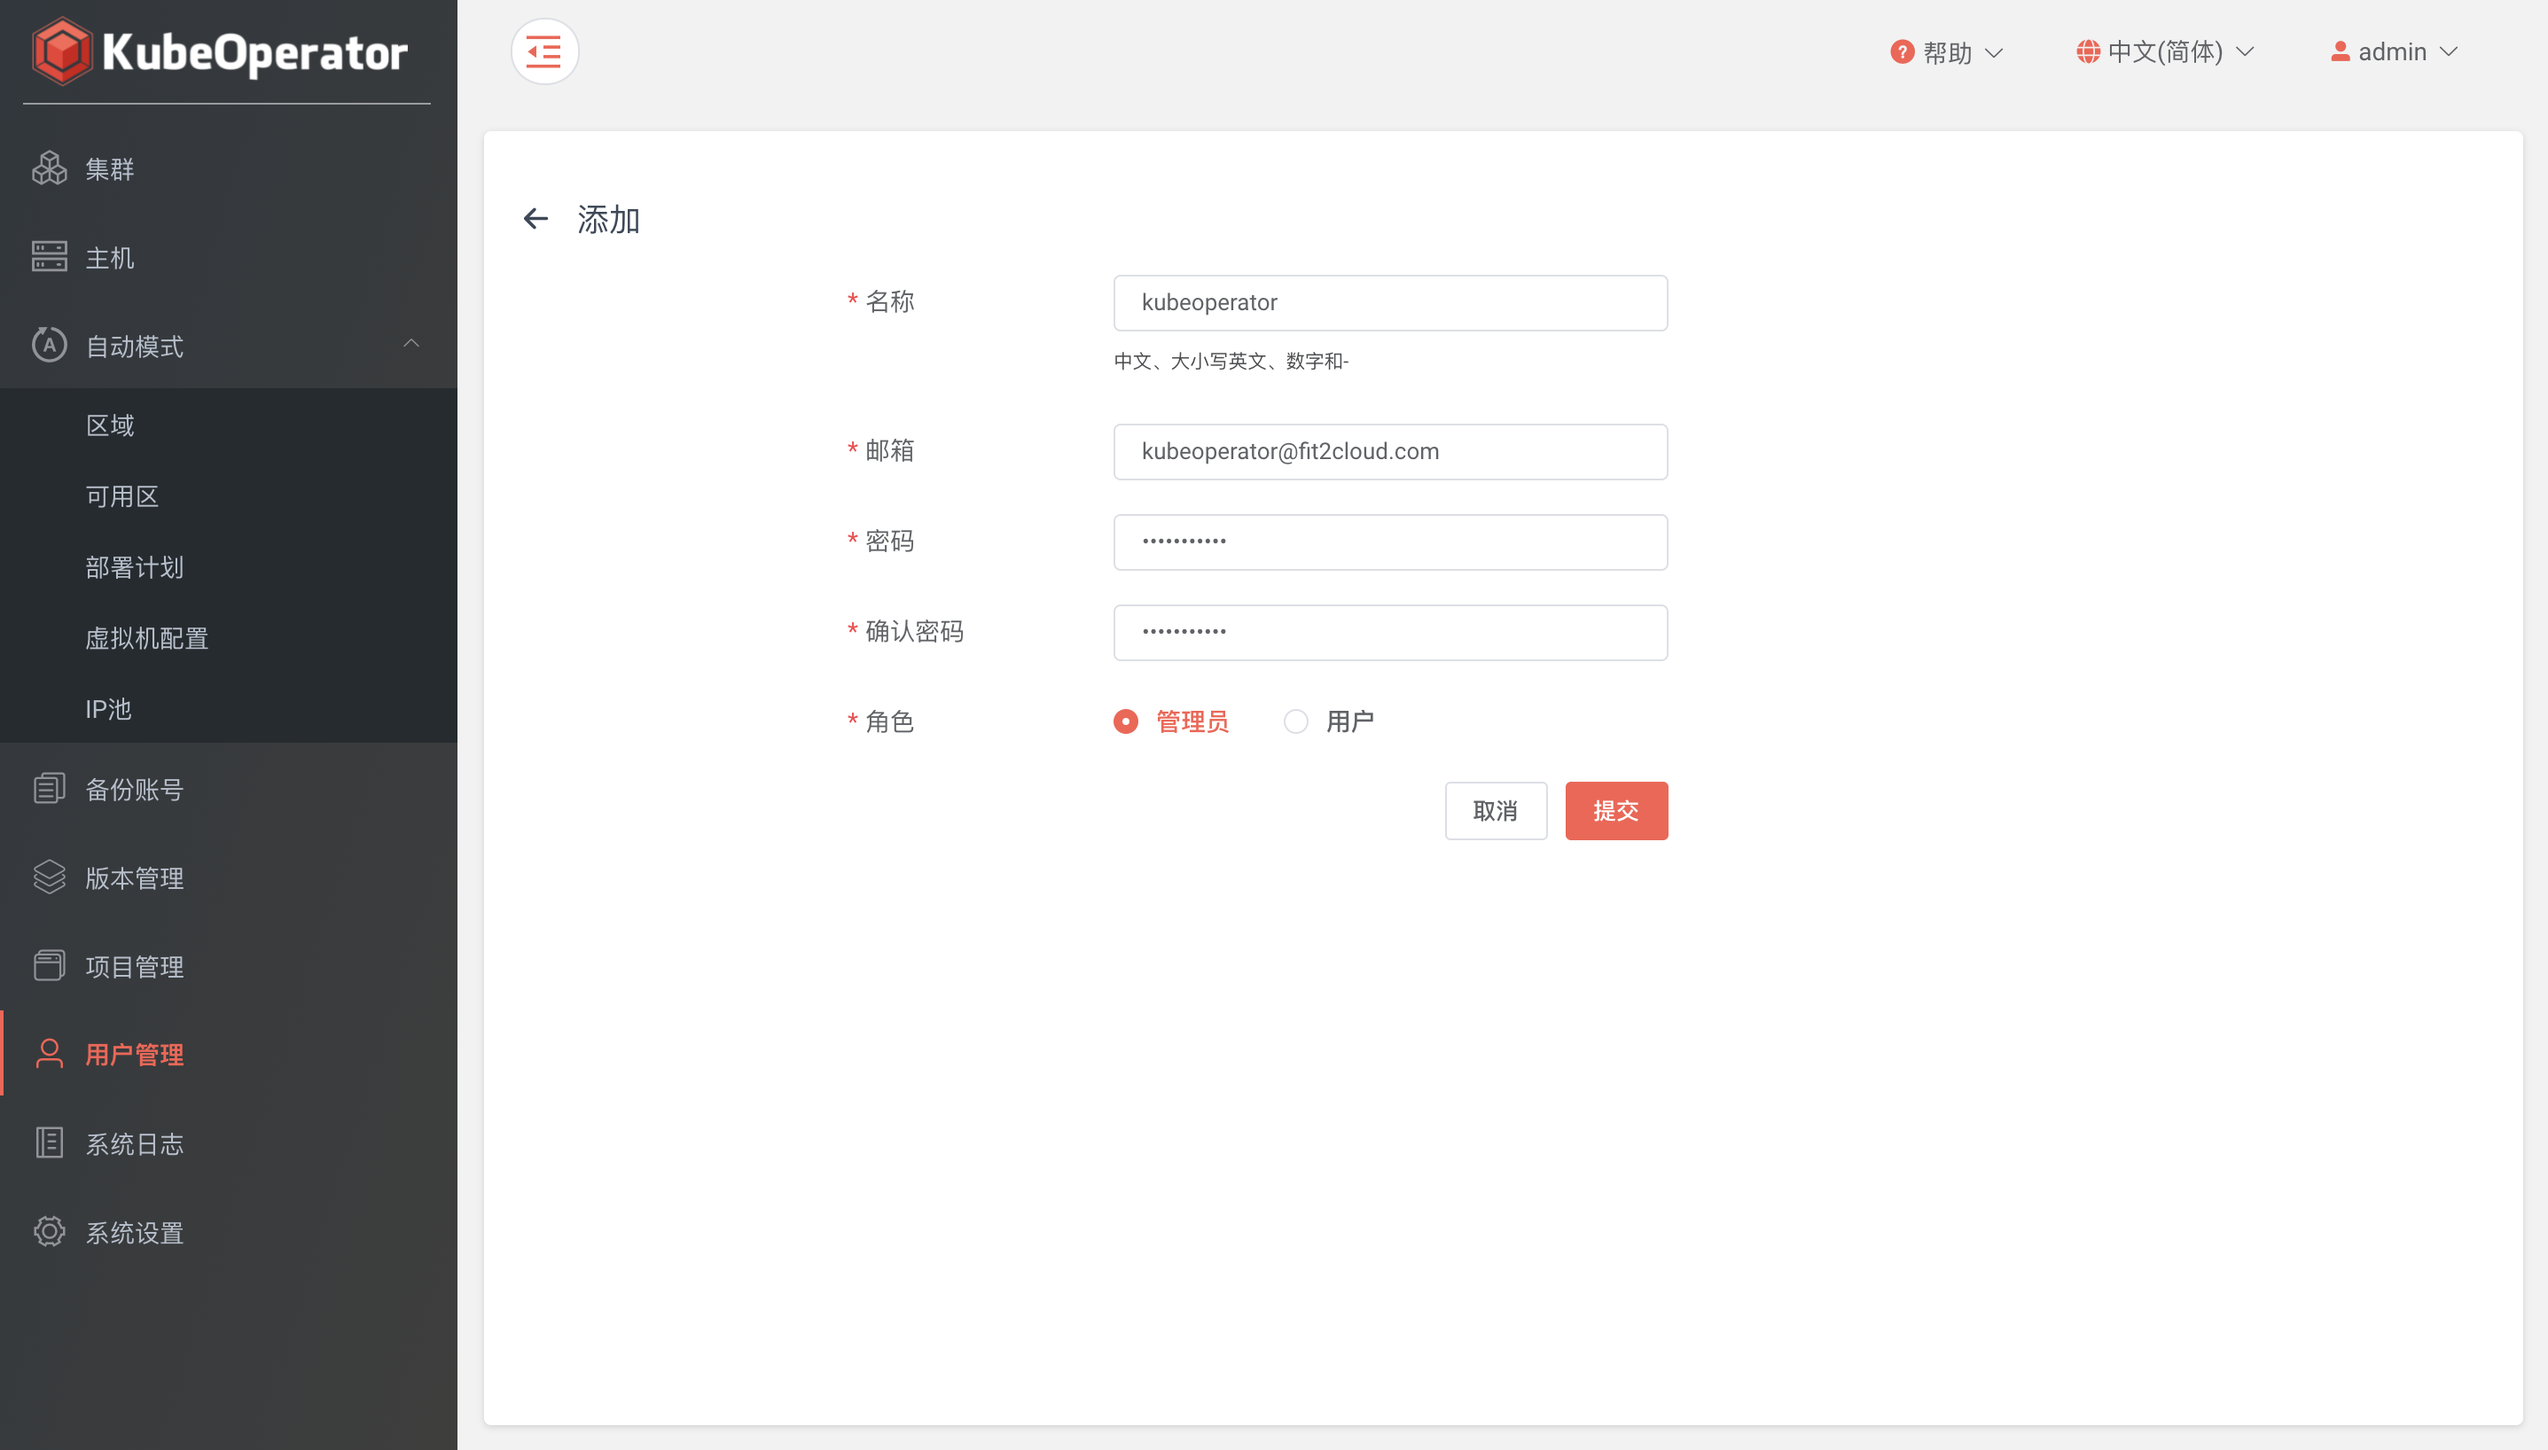
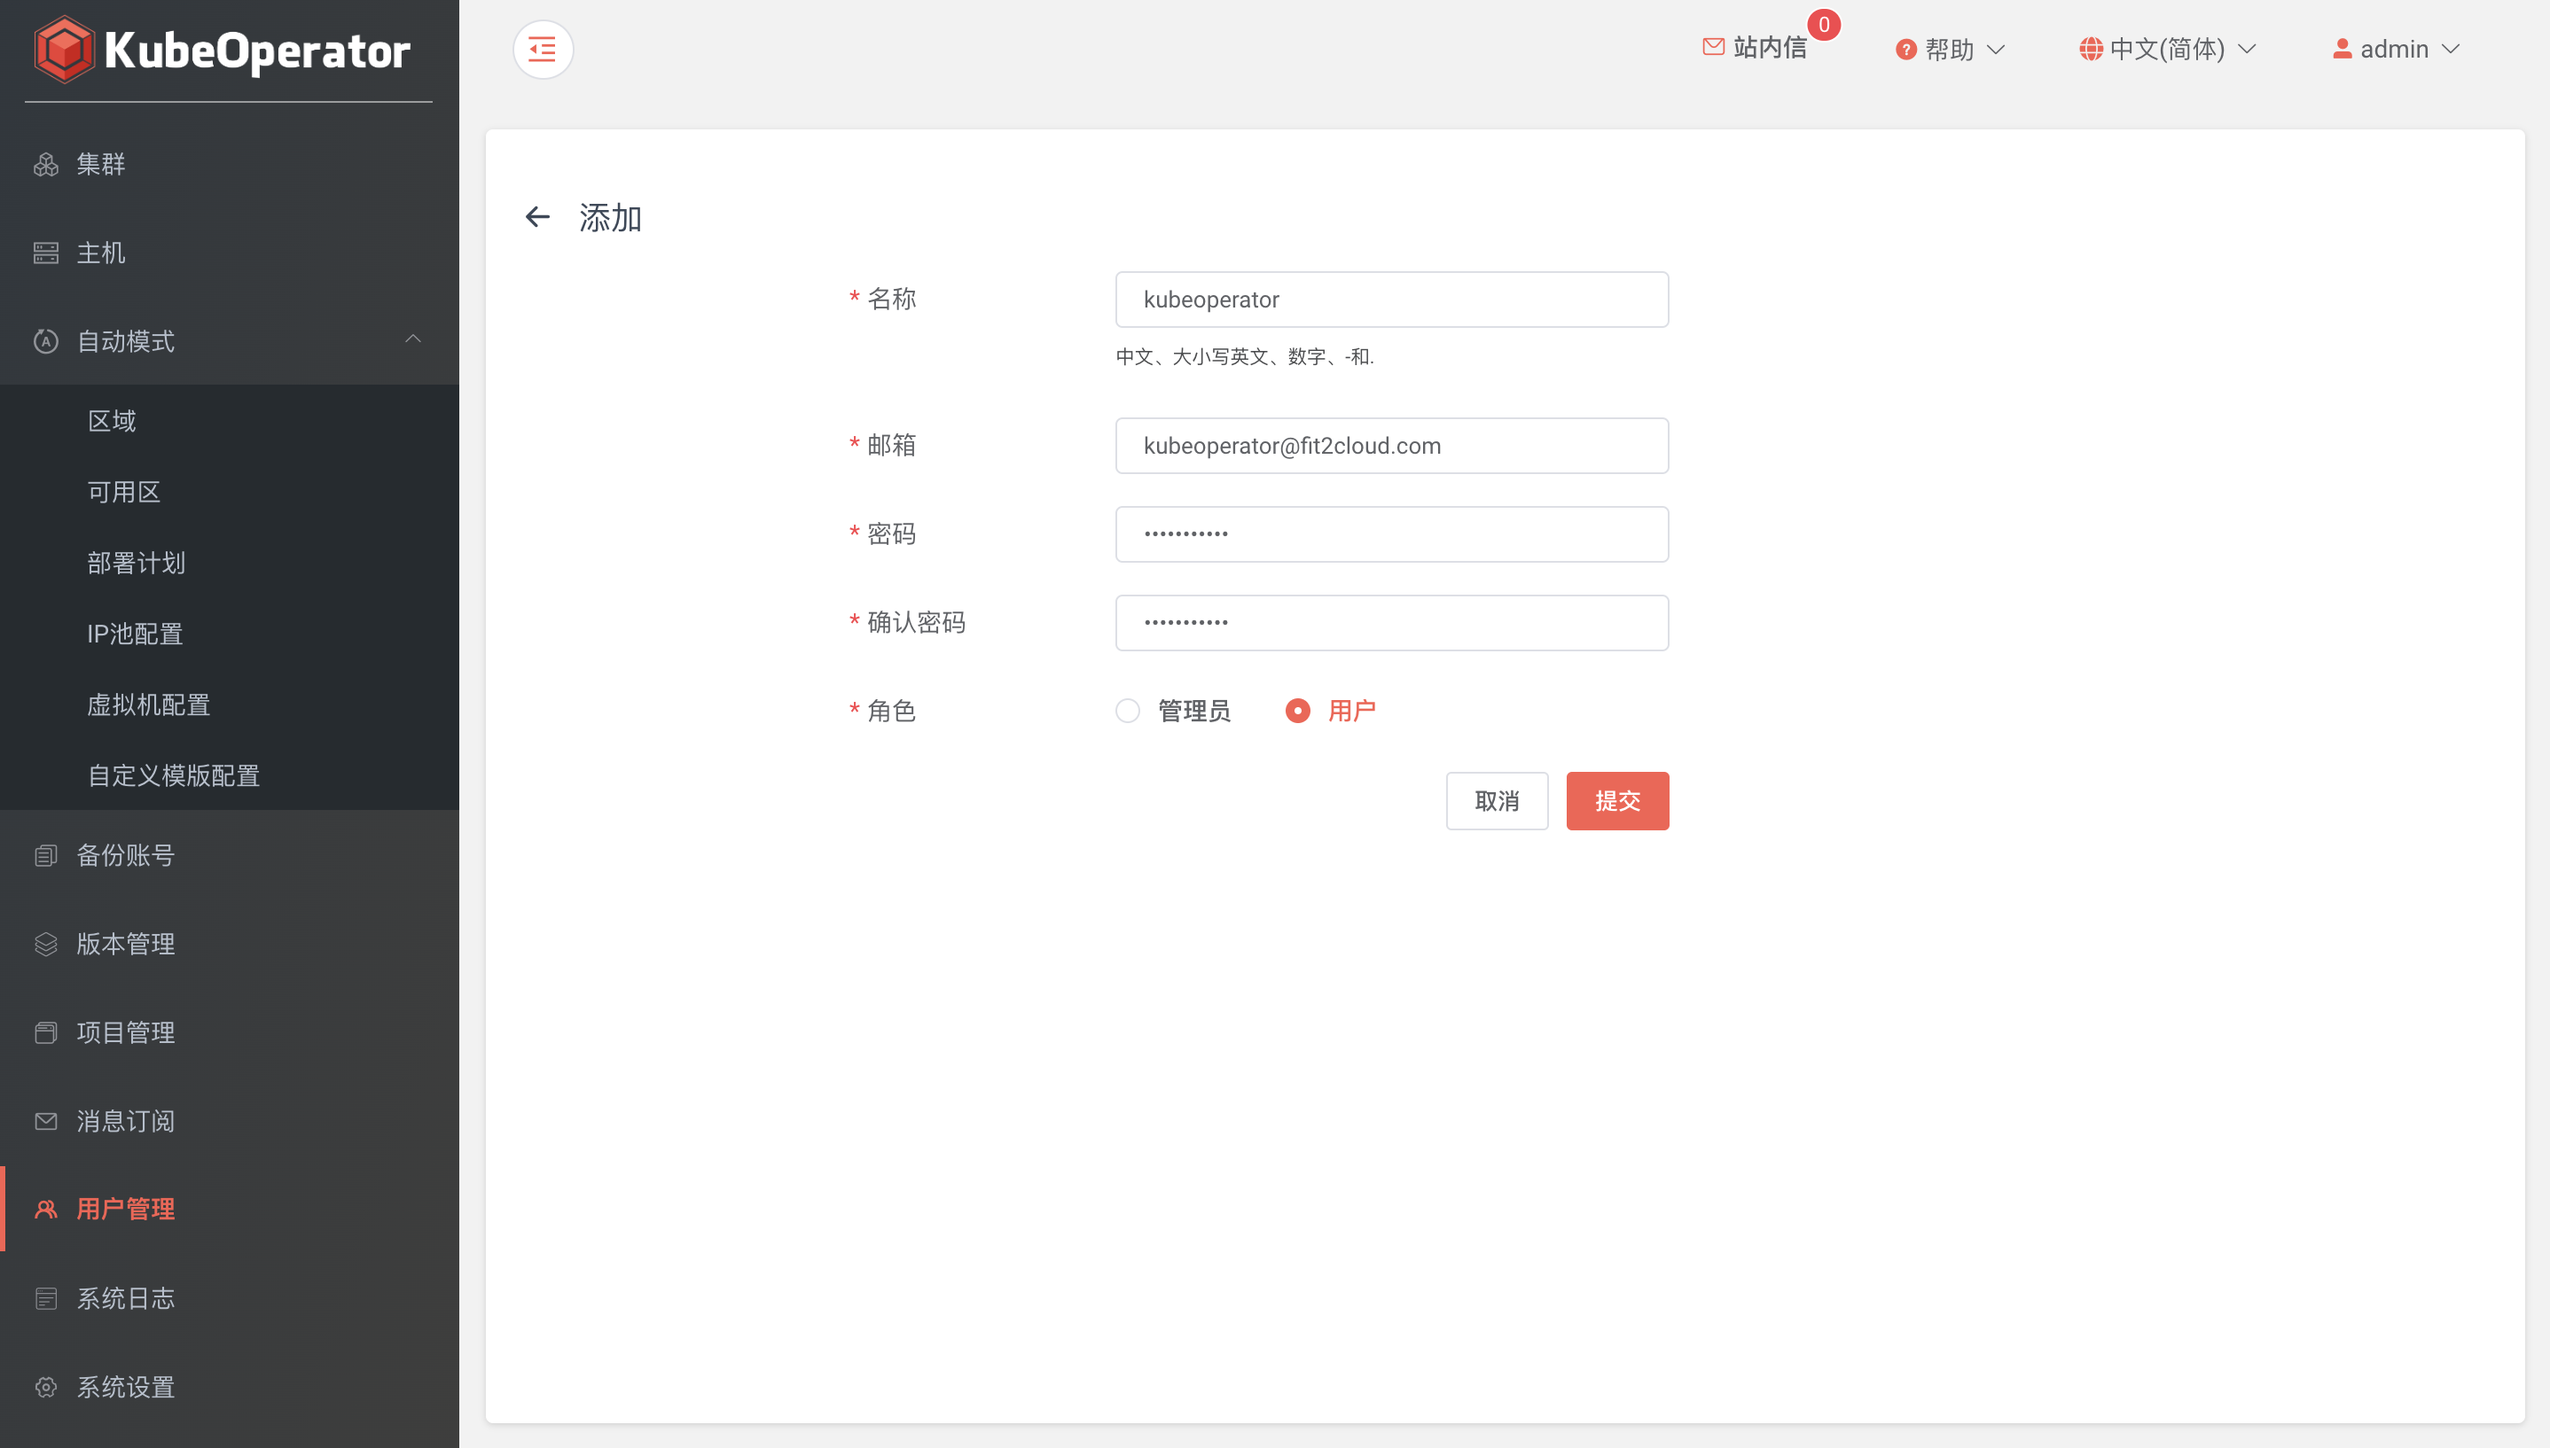
docs: 用户管理

diff --git a/docs/user_manual/user_management.md b/docs/user_manual/user_management.md
@@ -13,27 +13,30 @@
         - 密码中不得包含登录用户名
         - 密码修改两个月至少修改一次
 
-### 系统管理员
+!!! warning "超级管理员"
+    用户名: admin, 初始密码: kubeoperator@admin123
+
+### 添加
 
 !!! warning ""
-    系统管理员用户权限和系统默认账号 admin 权限完全相同
+    - 超级管理员可以添加管理员或者普通用户
+    - 管理员可以添加普通用户
 
 ![admin-user](../img/user_manual/user_management/user-1.png)
 
-### 普通用户
+### 授权
 
 !!! warning ""
-    普通用户初始状态没有任何权限，需要在【项目管理】菜单中将其添加为项目管理员或集群管理员
+    添加普通用户后（初始状态没有任何权限），需要在【项目管理】菜单中将其添加为项目管理员或集群管理员
 
-![common-user](../img/user_manual/user_management/user-2.png)
+### 编辑
 
 !!! warning ""
-    - admin 管理员可以删除、禁用和开启所有用户
-    - 新建系统管理员可以删除、禁用和开启除 admin 账号以外的所有用户，普通用户无上述权限
+    - 超级管理员可以修改用户角色并重置用户密码
+    - 管理员可以修改普通用户邮箱
+    - 超级管理员或者管理员可以针对用户进行删除、禁用和启用等操作
 
 ### 修改密码
 
 !!! warning ""
-    点击右上角用户下拉按钮，选择修改密码
-
-![edit-password](../img/user_manual/user_management/user-3.png)
+    点击右上角用户下拉按钮，选择个人设置 - 修改密码
